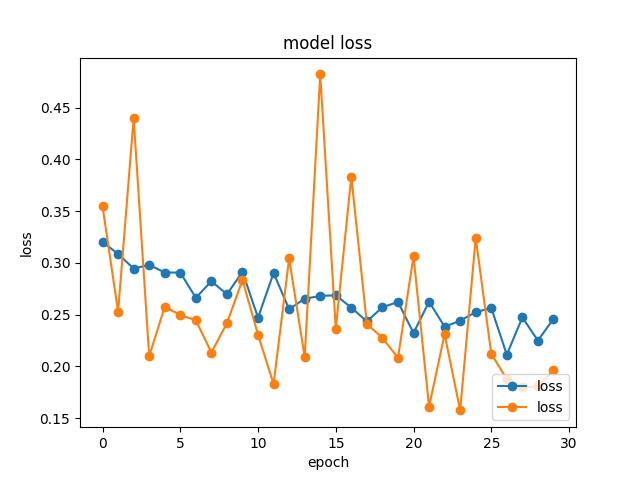
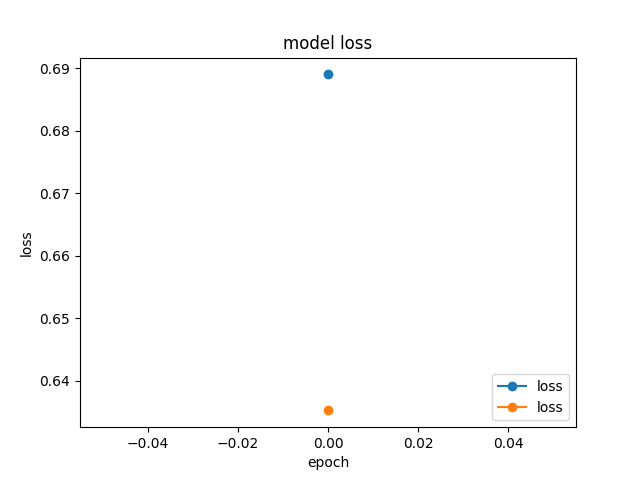
[add]損失関数を追加したが、エラーを吐かれたので組み込んではいない

diff --git a/src/model.py b/src/model.py
@@ -3,6 +3,7 @@ from PIL import Image
 from sklearn.model_selection import train_test_split
 from termcolor import cprint
 
+from keras import backend as K
 from keras.callbacks import EarlyStopping
 from keras.callbacks import ModelCheckpoint
 from keras.layers import Activation
@@ -21,7 +22,7 @@ from keras.utils.np_utils import to_categorical
 import data_loader
 
 
-EPOCHS = 30
+EPOCHS = 10
 BATCH_SIZE = 16
 
 
@@ -100,7 +101,7 @@ class Foreigner_classifier():
         self.model.add(Activation('softmax'))
 
         self.model.compile(loss='categorical_crossentropy',
-                           optimizer='adam',
+                           optimizer=lean_weight_loss,
                            metrics=['accuracy'])
 
     def train_model(self):
@@ -168,6 +169,13 @@ def get_callbacks(checkpoint_path, patience=2):
     es = EarlyStopping('val_loss', patience=patience, mode="min")
     msave = ModelCheckpoint(checkpoint_path, save_best_only=True)
     return [es, msave]
+
+
+# this function raise error
+def lean_weight_loss(y_true, y_pred):
+    loss_jpn = y_true[:, 0] * K.log(y_pred[:, 0])
+    loss_frn = y_true[:, 1] * K.log(y_pred[:, 1])
+    return loss_jpn + loss_frn * 10
 
 
 def main():
